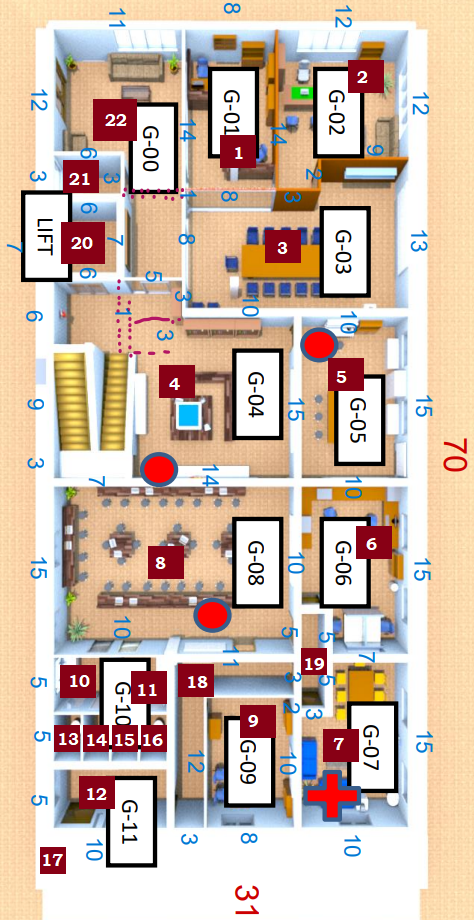
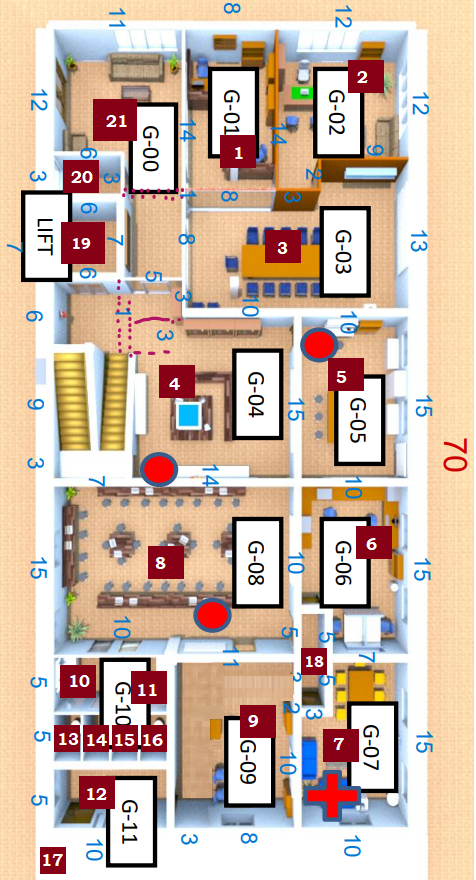
Added some paths to FloorG

diff --git a/FloorG.html b/FloorG.html
@@ -130,8 +130,8 @@
         var out = 0;                    //To check whether mouse pointer is on threejs scene or on the panel
         var X = 0.52,Y=0.7,R=0.9,S=0.08;
         var Floor = 0;
-        var initialCamera_X = 0, initialCamera_Y = -2.7, initialCamera_Z = -3.5;
-        var initialCamera_Xangle = 0;
+        var initialCamera_X = 0, initialCamera_Y = -3.2, initialCamera_Z = -75.2;
+        var initialCamera_Xangle = -Math.PI/2;
         var yR = 0, zR = R; 
         var angle_x=initialCamera_Xangle,angle_y=0;                //Starting rotation values of the camera
 
@@ -158,13 +158,12 @@
         var building15 = ["Ladies Washroom 1","<li>Washroom</li><li>Ground Floor</li><li>For Ladies</li><li>Public</li>","<li>This is a Washroom</li><li>This is a public room</li><li>For the use of Ladies</li><li>This is in Ground Floor</li>"];
         var building16 = ["Ladies Washroom 2","<li>Washroom</li><li>Ground Floor</li><li>For Ladies</li><li>Public</li>","<li>This is a Washroom</li><li>This is a public room</li><li>For the use of Ladies</li><li>This is in Ground Floor</li>"];
         var building17 = ["Garden","<li>Garden of the Department</li><li>Public</li>","<li>This is the Garden of the Department</li><li>This is a public area.</li><li>You can enter to the department building from two doors</li>"];
-        var building18 = ["Corridor 1","<li>Public</li><li>Ground Floor</li><li>pqrs</li>","<li>Room ID is G-01</li><li>This is a public room</li><li>This is in Ground Floor</li><li>wge wgweg ehrg asd</li>"];
-        var building19 = ["Corridor 2","<li>Public</li><li>Ground Floor</li><li>Four doors</li>","<li>This is a public area</li><li>This is in Ground Floor</li><li>Can be used to enter to the Open Lab 1</li><li>Can be used to enter to the Open Lab 2</li><li>Can be used to enter to the Staff Common Room 1</li><li>Can be used to enter to the Staff Common Room 2</li>"];
-        var building20 = ["Lift","<li>Public</li><li>Ground Floor</li>","<li>This is for public use</li><li>This is in Ground Floor</li><li>Can be used to enter to any floor</li>"];
-        var building21 = ["Servant Room","<li>Private</li><li>Ground Floor</li>","<li>For the use of Servants</li><li>This is a public room</li><li>This is in Ground Floor</li>"];
-        var building22 = ["Entrance Lobby","<li>G-00</li><li>Public</li><li>Ground Floor</li>","<li>Room ID is G-00</li><li>This is a public room</li><li>This is in Ground Floor</li><li>This has a seating area</li><li>This can be used to enter to the building</li>"];
+        var building18 = ["Corridor 2","<li>Public</li><li>Ground Floor</li><li>Four doors</li>","<li>This is a public area</li><li>This is in Ground Floor</li><li>Can be used to enter to the Open Lab 1</li><li>Can be used to enter to the Open Lab 2</li><li>Can be used to enter to the Staff Common Room 1</li><li>Can be used to enter to the Staff Common Room 2</li>"];
+        var building19 = ["Lift","<li>Public</li><li>Ground Floor</li>","<li>This is for public use</li><li>This is in Ground Floor</li><li>Can be used to enter to any floor</li>"];
+        var building20 = ["Servant Room","<li>Private</li><li>Ground Floor</li>","<li>For the use of Servants</li><li>This is a public room</li><li>This is in Ground Floor</li>"];
+        var building21 = ["Entrance Lobby","<li>G-00</li><li>Public</li><li>Ground Floor</li>","<li>Room ID is G-00</li><li>This is a public room</li><li>This is in Ground Floor</li><li>This has a seating area</li><li>This can be used to enter to the building</li>"];
 
-        departmentDatabase = [building0,building1,building2,building3,building4,building5,building6,building7,building8,building9,building10,building11,building12,building13,building14,building15,building16,building17,building18,building19,building20,building21,building22];
+        departmentDatabase = [building0,building1,building2,building3,building4,building5,building6,building7,building8,building9,building10,building11,building12,building13,building14,building15,building16,building17,building18,building19,building20,building21];
         
 
         //Scene
@@ -418,7 +417,7 @@
 
 //Creating Transparent Objects
         var transparentMaterialArray = [];
-        for(var i=0;i<23;i++){
+        for(var i=0;i<22;i++){
             transparentMaterialArray[i] = new THREE.MeshBasicMaterial({color: 0x2758E7, transparent:true, opacity:0.6});
         }
         function createTransparentObject(buildingID,horv,yPosition,zPosition){
@@ -440,7 +439,7 @@
         }
 
         var transparentMaterialForPanelsArray = [];
-        for(var i=0;i<23;i++){
+        for(var i=0;i<22;i++){
             transparentMaterialForPanelsArray[i] = new THREE.MeshBasicMaterial({color: 0x2758E7, transparent:true, opacity:0});
         }
         function createTransparentPanel(buildingID,yvalue,zvalue,yPosition,zPosition){
@@ -477,7 +476,7 @@ function createWall(y,z,Y,Z){
 //Creating Navigating Bars
         //Creating Transparent Objects
         var NavigatingMaterialArray = [];
-        for(var i=0;i<5;i++){
+        for(var i=0;i<25;i++){
             NavigatingMaterialArray[i] = new THREE.MeshBasicMaterial({color: 0xE91747 , transparent:false, opacity:1});
         }
         function createNavigatingBars(buildingID,horv,length,yPosition,zPosition){
@@ -485,7 +484,12 @@ function createWall(y,z,Y,Z){
                 var geometry5 = new THREE.BoxGeometry(0.001,length,0.5);
             }else if(horv=="v"){
                 var geometry5 = new THREE.BoxGeometry(0.001,0.5,length);
+            }else if(horv=="V"){
+                var geometry5 = new THREE.BoxGeometry(0.001,0.4,length);
+            }else if(horv=="H"){
+                var geometry5 = new THREE.BoxGeometry(0.001,length,0.6);
             }
+
             var material5 = NavigatingMaterialArray[buildingID];
             var cube5 = new THREE.Mesh(geometry5,material5);
             scene.add(cube5);
@@ -947,6 +951,9 @@ function createWall(y,z,Y,Z){
 
 //Corner Controls
         function changeCorners(){
+            alert(camera.position.y);
+            alert(camera.position.z);
+            alert(camera.rotation.x);
             if(circleCorners==1){
                 circleCorners = 0;
                 document.getElementById("changeCorners").innerHTML = "Circle Corners";
@@ -1165,46 +1172,43 @@ function createWall(y,z,Y,Z){
         var G08_door4 = createTransparentObject(8,"v",-21.2,-27.6);
         var G08_door5 = createTransparentObject(8,"h",-17.35,-40.20);
 
-        //var G09_door1 = createTransparentObject(9,"v",-12.68,-17.57);
+        var G09_door1 = createTransparentObject(9,"v",-9.71,-12.43);
+        var G09_door2 = createTransparentObject(9,"v",-21.2,-22.3);
+        var G09_door3 = createTransparentObject(9,"h",-16.51,-25.22);
 
-        var GBW_door1 = createTransparentObject(10,"th",-1.33,-19.78);
-        var GBW_door2 = createTransparentObject(10,"th",-3.55,-19.78);
-        var GBW_door6 = createTransparentObject(10,"h",-2.6,-25.3);//
+        var G10_door1 = createTransparentObject(10,"th",-1.33,-19.78);
+        var G10_door2 = createTransparentObject(10,"th",-3.55,-19.78);
+        var G10_door3 = createTransparentObject(10,"h",-2.6,-25.3);//
         
-        var GGW_door1 = createTransparentObject(11,"th",-6.12,-19.78);
-        var GGW_door2 = createTransparentObject(11,"th",-8.68,-19.78);
-        var GGW_door3 = createTransparentObject(11,"h",-7.2,-25.3);//
+        var G11_door1 = createTransparentObject(11,"th",-6.12,-19.78);
+        var G11_door2 = createTransparentObject(11,"th",-8.68,-19.78);
+        var G11_door3 = createTransparentObject(11,"h",-7.2,-25.3);//
         
-        var G11_door1 = createTransparentObject(12,"h",-2.65,-10.15);
-        var G11_door2 = createTransparentObject(12,"v",-9.93,-12.43);
+        var G12_door1 = createTransparentObject(12,"h",-2.65,-10.15);
+        var G12_door2 = createTransparentObject(12,"v",-9.93,-12.43);
 
-        var GT1_door1 = createTransparentObject(13,"th",-1.33,-20);
-        var GT2_door2 = createTransparentObject(14,"th",-3.55,-20);
-        var GT3_door3 = createTransparentObject(15,"th",-6.12,-20);
-        var GT4_door4 = createTransparentObject(16,"th",-8.68,-20);
+        var G13_door1 = createTransparentObject(13,"th",-1.33,-20);
+        var G14_door2 = createTransparentObject(14,"th",-3.55,-20);
+        var G15_door3 = createTransparentObject(15,"th",-6.12,-20);
+        var G16_door4 = createTransparentObject(16,"th",-8.68,-20);
 
-        var GBG_door1 = createTransparentObject(17,"v",-0.32,-75.11);
-        var GBG_door2 = createTransparentObject(17,"h",-2.65,-10.37);
+        var G17_door1 = createTransparentObject(17,"v",-0.32,-75.11);
+        var G17_door2 = createTransparentObject(17,"h",-2.65,-10.37);
 
-        var GC1_door1 = createTransparentObject(18,"v",-9.71,-12.43);
-        //var GC1_door2 = createTransparentObject(18,"v",-12.90,-17.57);
-        var GC1_door3 = createTransparentObject(18,"v",-21.2,-22.3);
-        var GC1_door4 = createTransparentObject(18,"h",-16.51,-25.22);
+        var G18_door1 = createTransparentObject(18,"v",-20.98,-27.6);
+        var G18_door2 = createTransparentObject(18,"v",-20.98,-22.3);
+        var G18_door3 = createTransparentObject(18,"h",-23.89,-19.61);
+        var G18_door4 = createTransparentObject(18,"h",-23.7,-30.22);
 
-        var GC2_door1 = createTransparentObject(19,"v",-20.98,-27.6);
-        var GC2_door2 = createTransparentObject(19,"v",-20.98,-22.3);
-        var GC2_door3 = createTransparentObject(19,"h",-23.89,-19.61);
-        var GC2_door4 = createTransparentObject(19,"h",-23.7,-30.22);
+        var G19_door1 = createTransparentObject(19,"h",-2.65,-57.3);
 
-        var GL1_door1 = createTransparentObject(20,"h",-2.65,-57.3);
+        var G20_door1 = createTransparentObject(20,"v",-6.29,-67.7);
 
-        var GS1_door1 = createTransparentObject(21,"v",-6.29,-67.7);
-
-        var G00_door1 = createTransparentObject(22,"v",-0.1,-75.11);
-        var G00_door2 = createTransparentObject(22,"v",-6.07,-67.7);
-        var G00_door3 = createTransparentObject(22,"h",-8.43,-57.48);
-        var G00_door4 = createTransparentObject(22,"v",-11.37,-61.9);
-        var G00_door5 = createTransparentObject(22,"v",-11.37,-68.63);
+        var G21_door1 = createTransparentObject(21,"v",-0.1,-75.11);
+        var G21_door2 = createTransparentObject(21,"v",-6.07,-67.7);
+        var G21_door3 = createTransparentObject(21,"h",-8.43,-57.48);
+        var G21_door4 = createTransparentObject(21,"v",-11.37,-61.9);
+        var G21_door5 = createTransparentObject(21,"v",-11.37,-68.63);
 
 
         var PanelsList = [];
@@ -1231,7 +1235,6 @@ function createWall(y,z,Y,Z){
 
         var panel08_1BB = createTransparentPanel(8,20.47,14.805,-10.635,-32.7);     PanelsList.push(panel08_1BB);
         
-        //var panel09_1BB = createTransparentPanel(9,8,9.63,-16.87,-15.2);              PanelsList.push(panel09_1BB);
         var panel09_1BB = createTransparentPanel(9,11,14.55,-15.5,-17.6);           PanelsList.push(panel09_1BB);
 
         var panel10_1BB = createTransparentPanel(10,4.4,4.975,-2.59,-22.53);        PanelsList.push(panel10_1BB);
@@ -1248,17 +1251,14 @@ function createWall(y,z,Y,Z){
 
         var panel16_1BB = createTransparentPanel(16,2.1,4.8,-8.55,-17.44);          PanelsList.push(panel16_1BB);
 
-       // var panel18_1BB = createTransparentPanel(18,2.74,14.6,-11.33,-17.65);       PanelsList.push(panel18_1BB);
-       // var panel18_2BB = createTransparentPanel(18,8.2,4.7,-16.8,-22.6);           PanelsList.push(panel18_2BB);
-
-        var panel19_1BB = createTransparentPanel(19,4.6,9.967,-23.59,-25.22);       PanelsList.push(panel19_1BB);
+        var panel18_1BB = createTransparentPanel(18,4.6,9.967,-23.59,-25.22);       PanelsList.push(panel18_1BB);
         
-        var panel20_1BB = createTransparentPanel(20,5.6,7,-3.2,-61.47);             PanelsList.push(panel20_1BB);
+        var panel19_1BB = createTransparentPanel(19,5.6,7,-3.2,-61.47);             PanelsList.push(panel19_1BB);
         
-        var panel21_1BB = createTransparentPanel(21,5.6,4.6,-3.2,-67.67);           PanelsList.push(panel21_1BB);
+        var panel20_1BB = createTransparentPanel(20,5.6,4.6,-3.2,-67.67);           PanelsList.push(panel20_1BB);
        
-        var panel22_1BB = createTransparentPanel(22,10.75,9.2,-5.775,-75);          PanelsList.push(panel22_1BB);
-        var panel22_2BB = createTransparentPanel(22,4.8,12.8,-8.67,-64);            PanelsList.push(panel22_2BB);
+        var panel21_1BB = createTransparentPanel(21,10.75,9.2,-5.775,-75);          PanelsList.push(panel21_1BB);
+        var panel21_2BB = createTransparentPanel(21,4.8,12.8,-8.67,-64);            PanelsList.push(panel21_2BB);
 
         
         var transparentWallsList = [];
@@ -1313,8 +1313,20 @@ function createWall(y,z,Y,Z){
         var cubeH23BB = createWall(4,Y,-2,-51.5);       transparentWallsList.push(cubeH23BB);
         var cubeH24BB = createWall(3,Y,-5.7,-44);       transparentWallsList.push(cubeH24BB);
 
-        //var bar1 = createNavigatingBars(1,"v",20,-17.5,-32);
-
+        var bar1 = createNavigatingBars(1,"H",0.4,-3.2,-75.2);
+        var bar2 = createNavigatingBars(2,"H",5.2,-6,-75.2);
+        var bar3 = createNavigatingBars(3,"V",6.8,-8.4,-71.5);
+        var bar4 = createNavigatingBars(4,"H",3.8,-10.5,-68.4);
+        var bar5 = createNavigatingBars(5,"H",4,-14.4,-68.4);
+        var bar6 = createNavigatingBars(5,"V",1,-16.2,-69.2);
+        var bar7 = createNavigatingBars(5,"H",4,-18.4,-69.4);
+        var bar8 = createNavigatingBars(6,"V",0.8,-8.4,-67.7);
+        var bar9 = createNavigatingBars(7,"H",3.2,-6.6,-67.6);
+        var bar10 = createNavigatingBars(8,"V",5.8,-8.4,-64.4);
+        var bar11 = createNavigatingBars(9,"H",3.8,-10.5,-61.8);
+        var bar12 = createNavigatingBars(10,"V",6.1,-8.4,-58.45);
+        var bar13 = createNavigatingBars(11,"H",5.7,-5.35,-55.7);
+        var bar14 = createNavigatingBars(11,"V",3,-2.7,-57.5);
 
         //Set lights by using the created function above
 

diff --git a/commonContent.js b/commonContent.js
@@ -157,7 +157,6 @@ function addMouseEventsForWalls(cube,buildingID){                               
     }); 
 }
 
-
 function addMouseEventsForPanels(cube, buildingID){                                      //This function sets particular mouse event listeners to panels
     domEvents.addEventListener(cube,'click',event => {                          //Click listener (Signals when user has clicked on the building)
         if(out==0 && ViewMode!="walk"){                 //These functions work only when mouse poister is over the scene and user is in the drone/bird view

diff --git a/style.css b/style.css
@@ -16,6 +16,7 @@ body {
 .main_information_class{
     color: black;
     position: relative;
+    overflow: hidden;
     background-color: white;
     margin-top: 1.5%;
     margin-left: 1.5%;
